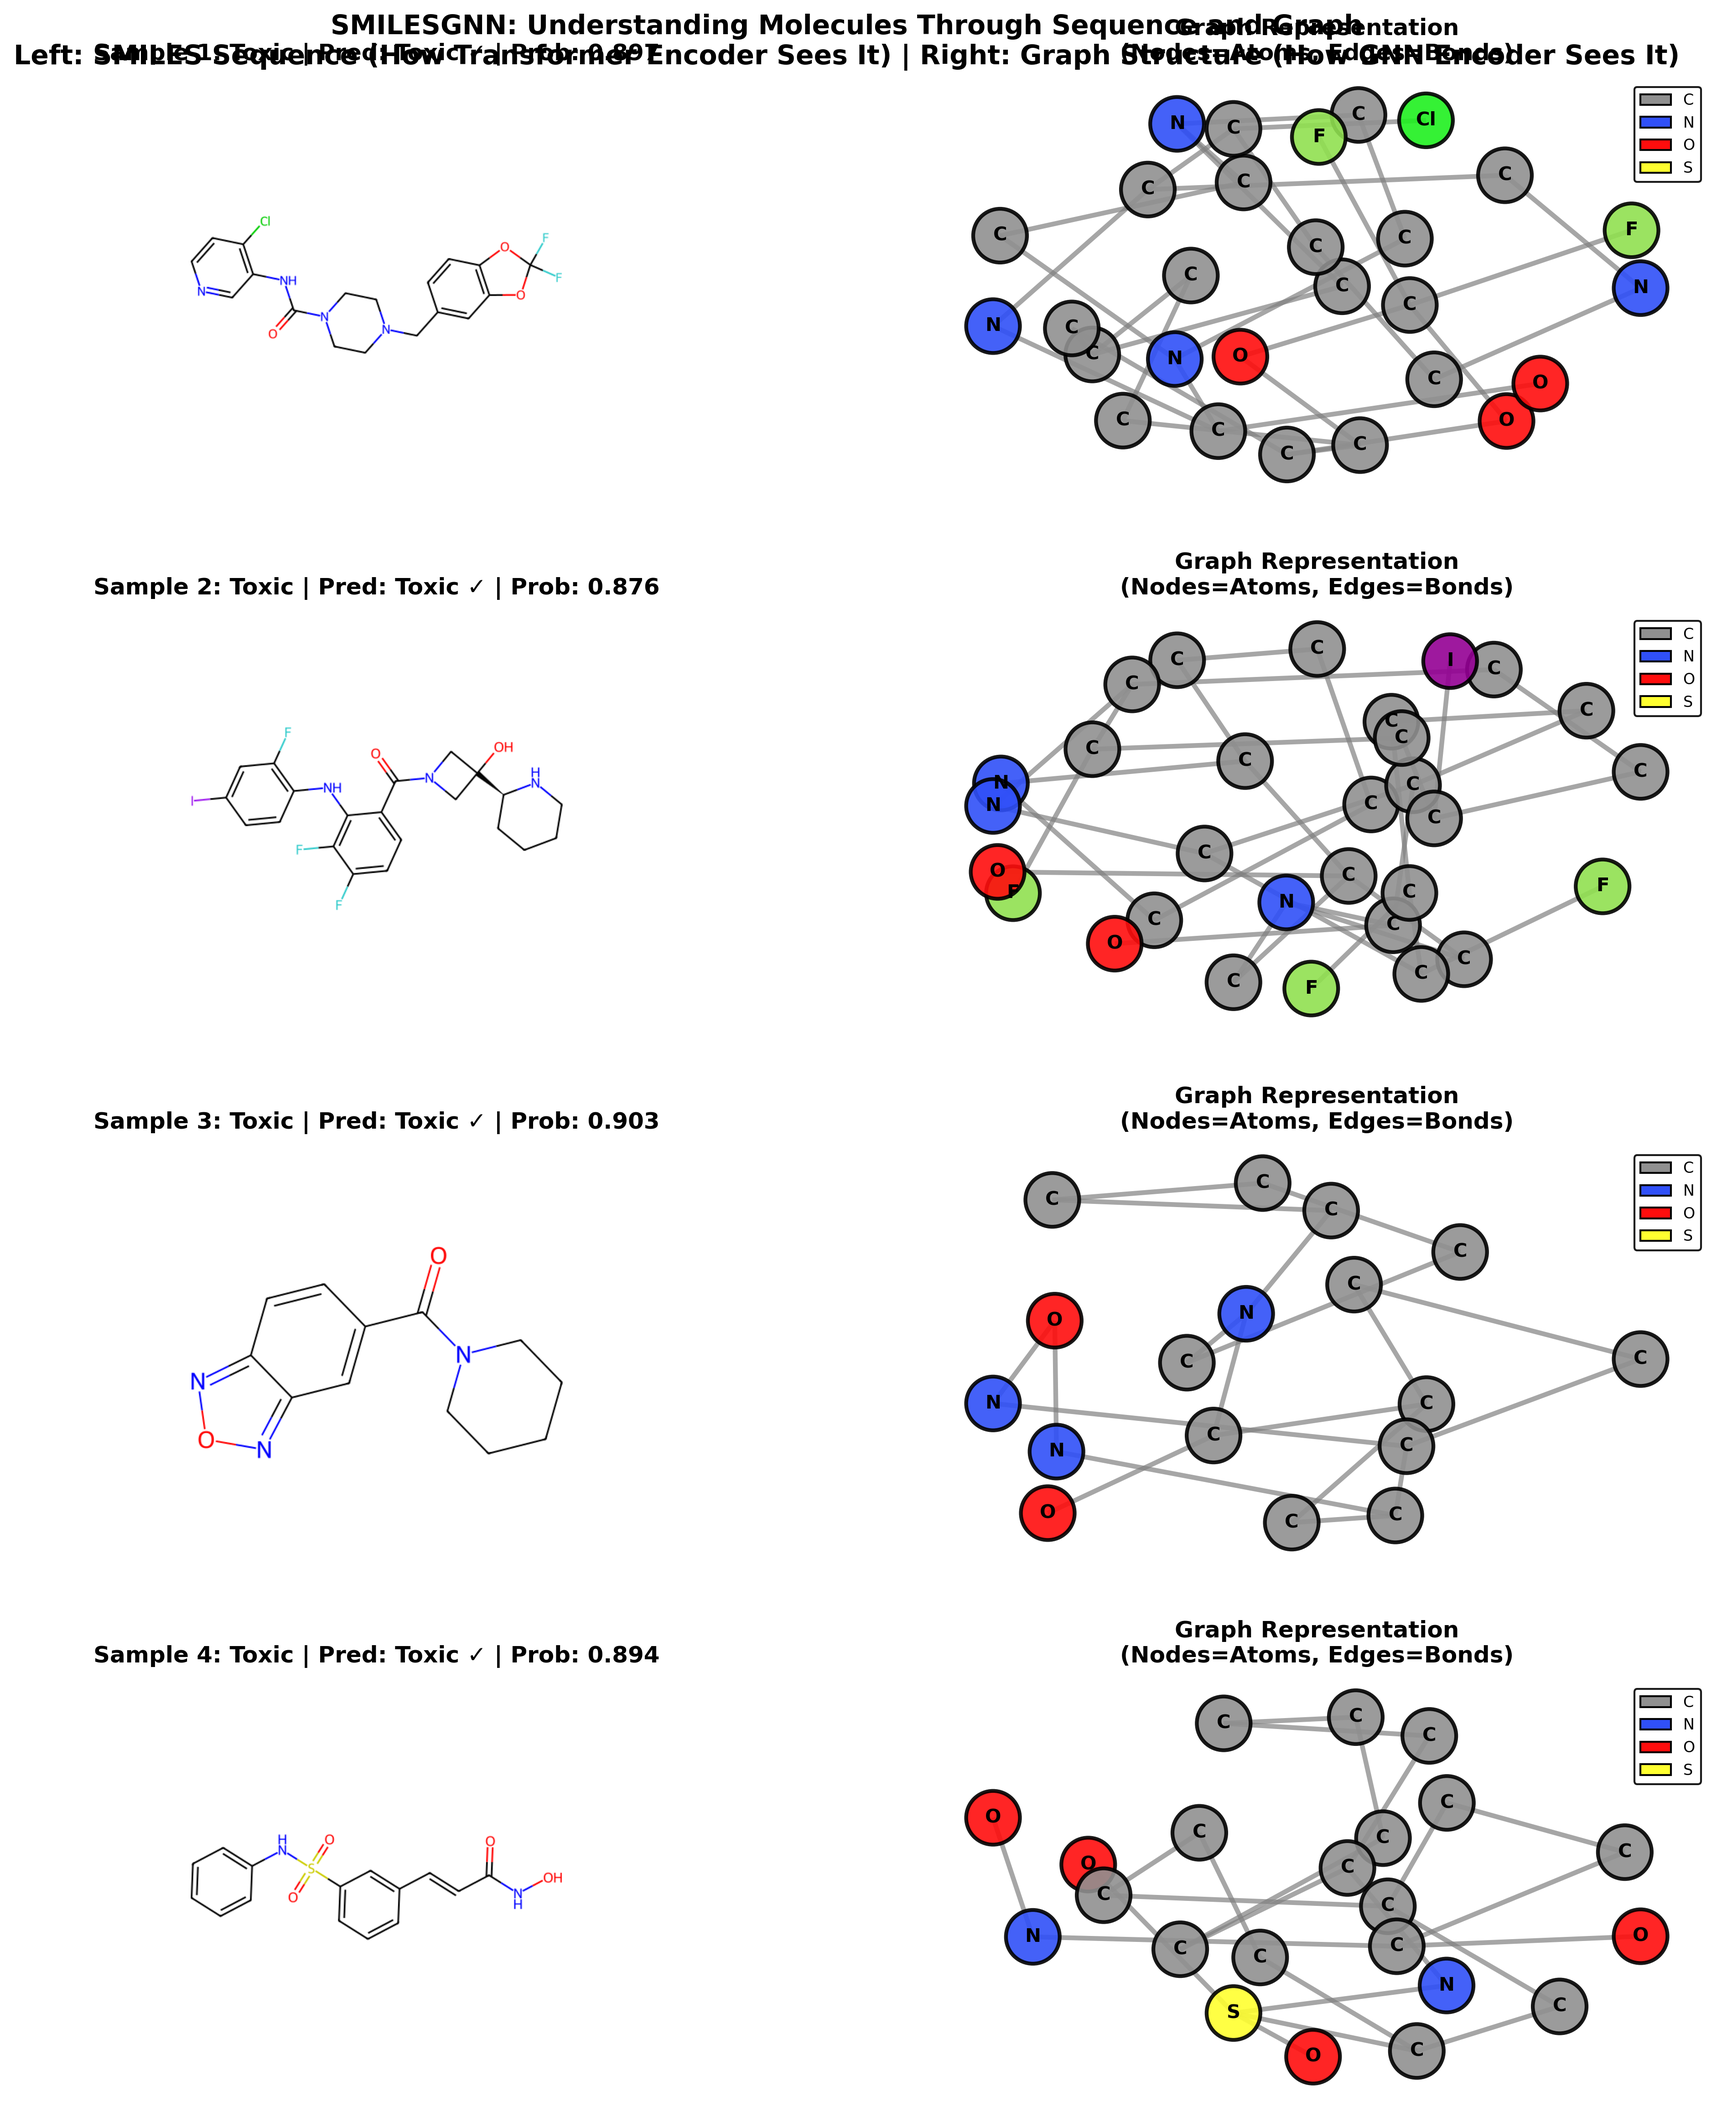
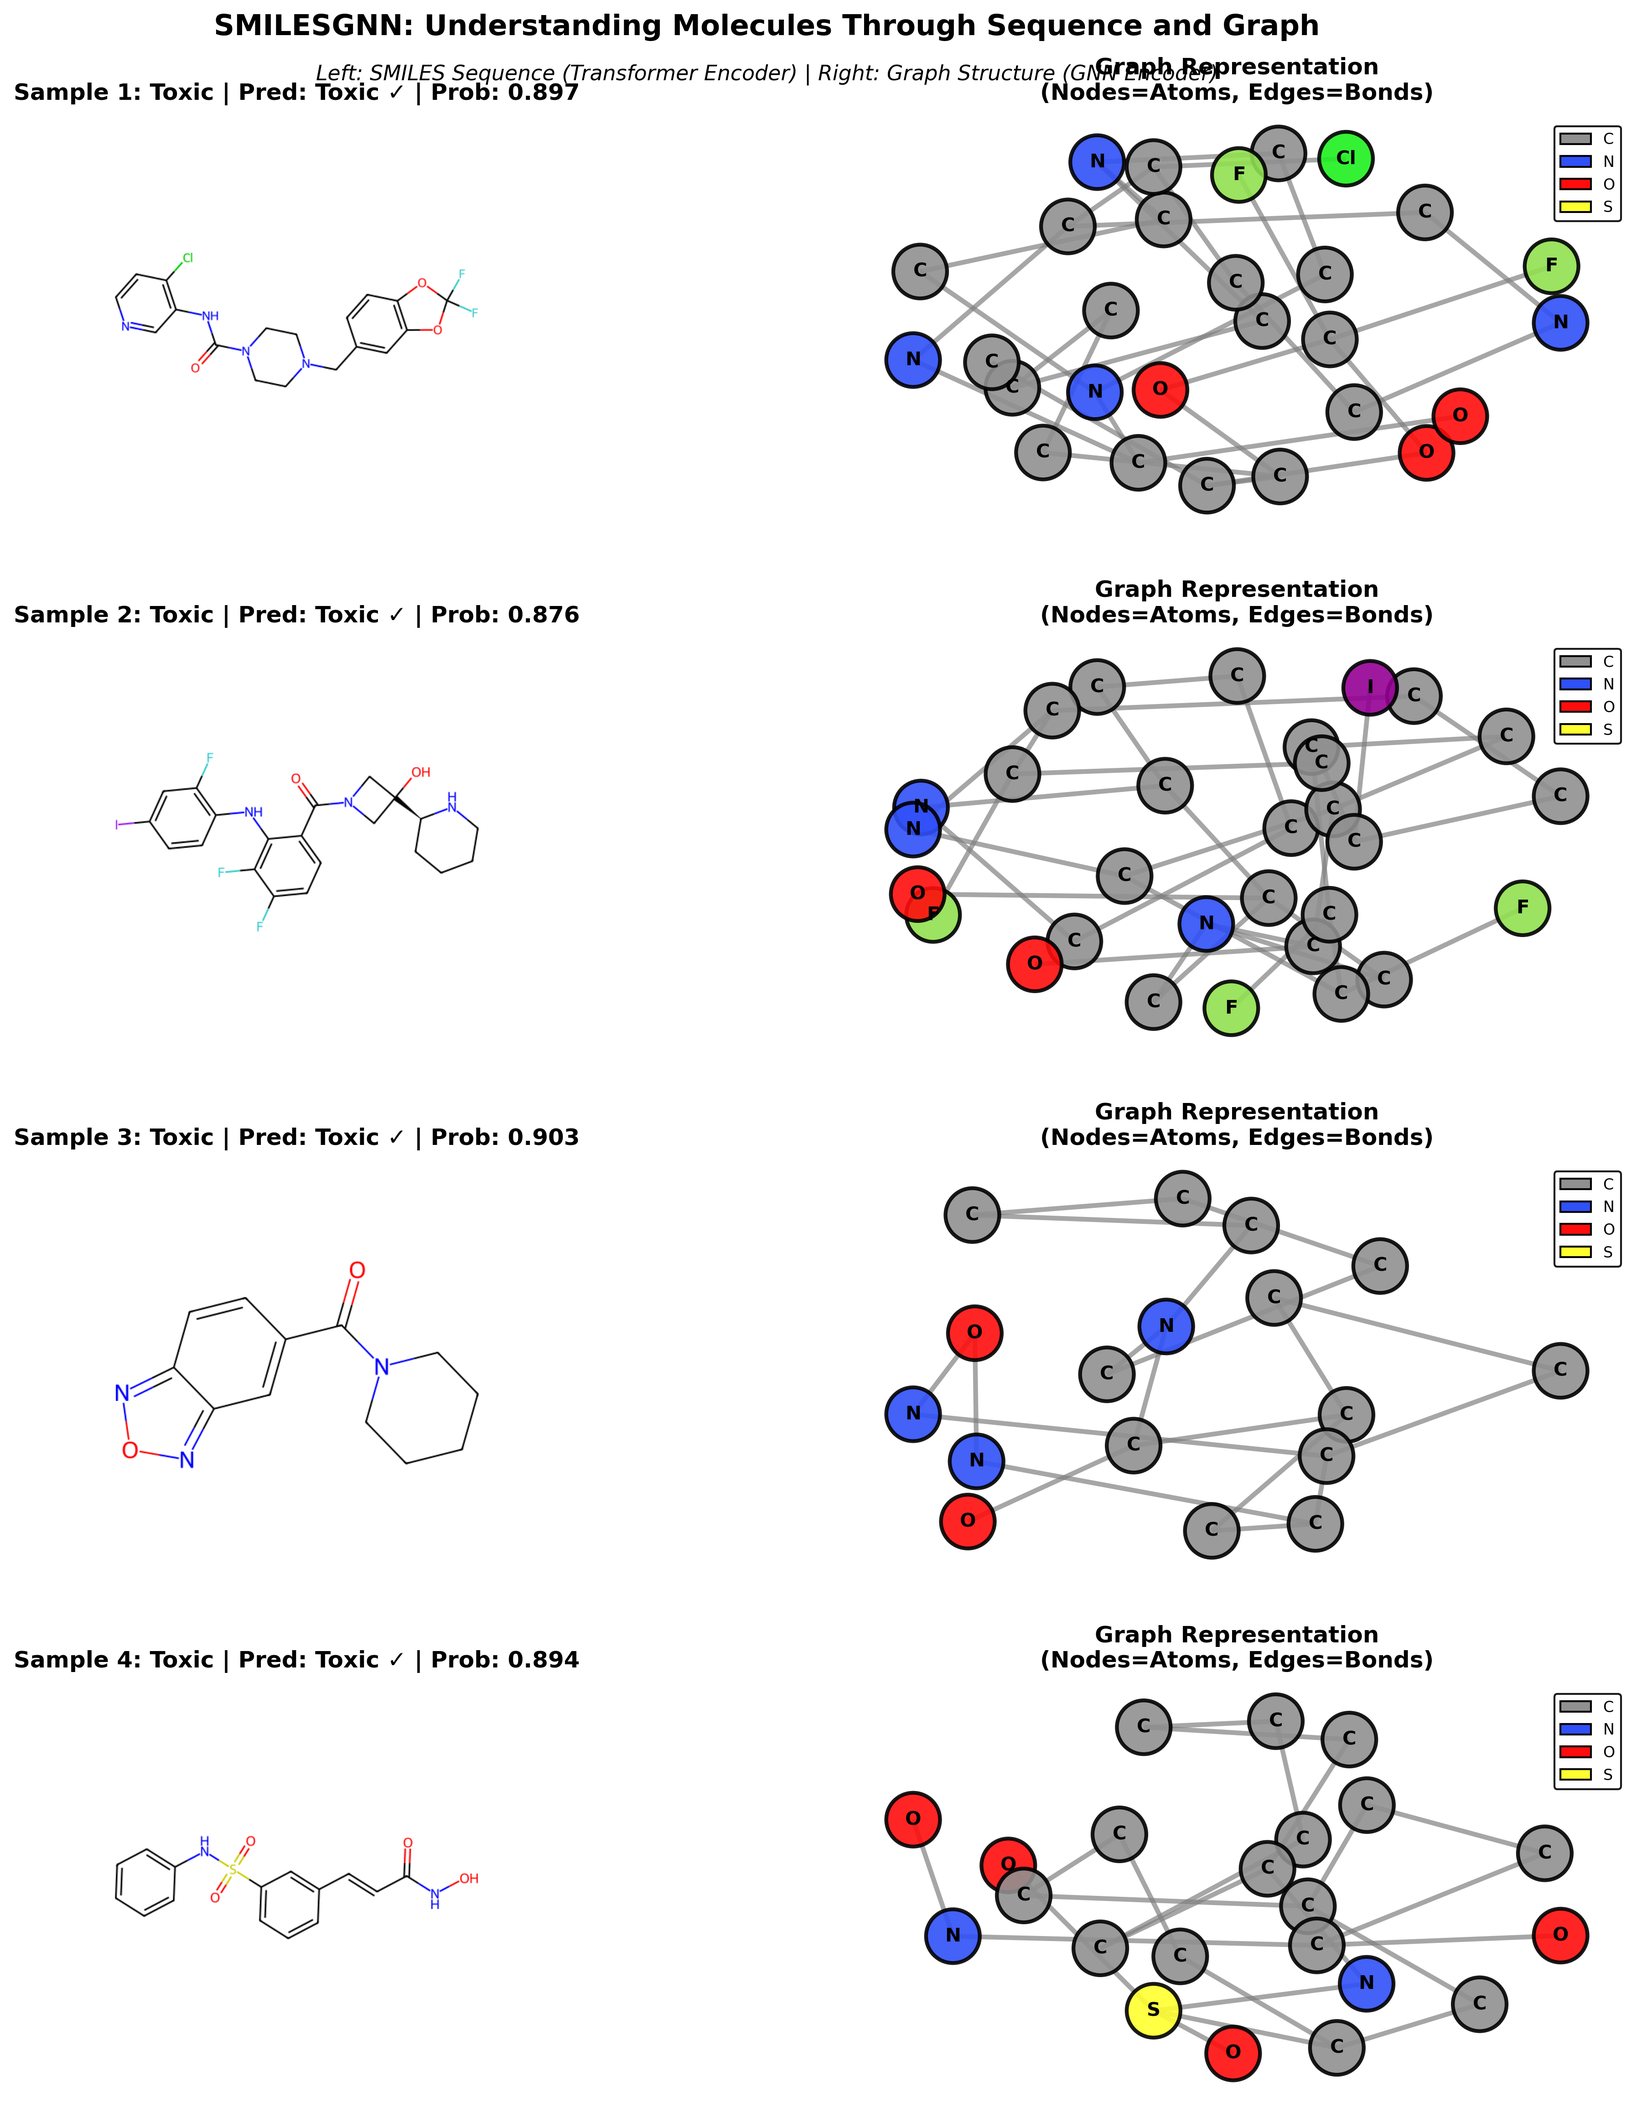
Fix overlapping title text in SMILES-graph paired visualizations
- Split title into main title and subtitle with proper spacing
- Adjusted figure layout to prevent text overlap
- Shortened subtitle text for better readability
- Used tight_layout with rect parameter to reserve space for titles

diff --git a/scripts/generate_smiles_graph_pairs.py b/scripts/generate_smiles_graph_pairs.py
@@ -182,9 +182,10 @@ def visualize_smiles_graph_pairs(smiles_list, labels, predictions, n_samples=4):
                     break
     
     # Create figure: 4 rows (samples) x 2 columns (SMILES + Graph)
+    # Adjust top margin to accommodate title and subtitle
     fig = plt.figure(figsize=(14, 16))
     gs = fig.add_gridspec(n_samples, 2, hspace=0.3, wspace=0.2,
-                         left=0.05, right=0.95, top=0.96, bottom=0.04)
+                         left=0.05, right=0.95, top=0.94, bottom=0.04)
     
     for row, data_idx in enumerate(sample_indices):
         smiles = smiles_list[data_idx]
@@ -206,12 +207,17 @@ def visualize_smiles_graph_pairs(smiles_list, labels, predictions, n_samples=4):
         title_graph = f"Graph Representation\n(Nodes=Atoms, Edges=Bonds)"
         visualize_molecular_graph(G, mol, ax_graph, title=title_graph)
     
-    fig.suptitle('SMILESGNN: Understanding Molecules Through Sequence and Graph\n'
-                 'Left: SMILES Sequence (How Transformer Encoder Sees It) | '
-                 'Right: Graph Structure (How GNN Encoder Sees It)',
-                fontsize=14, fontweight='bold', y=0.99)
+    # Add title and subtitle with proper spacing
+    fig.suptitle('SMILESGNN: Understanding Molecules Through Sequence and Graph',
+                fontsize=15, fontweight='bold', y=0.988)
     
-    plt.tight_layout()
+    # Add subtitle separately with smaller font and wrap text if needed
+    subtitle = ('Left: SMILES Sequence (Transformer Encoder) | '
+                'Right: Graph Structure (GNN Encoder)')
+    fig.text(0.5, 0.965, subtitle,
+             ha='center', va='top', fontsize=11, style='italic')
+    
+    plt.tight_layout(rect=[0, 0, 1, 0.96])  # Leave space at top for titles
     return fig
 
 
